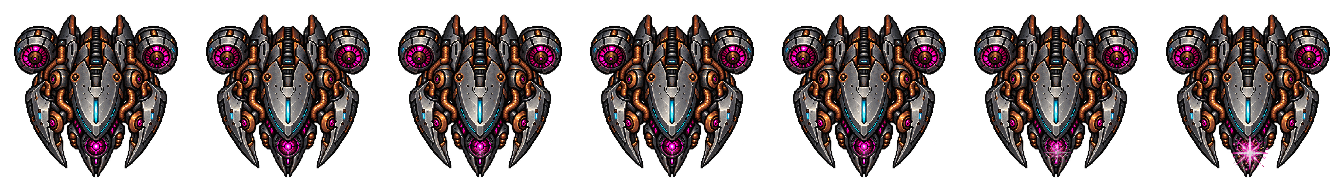
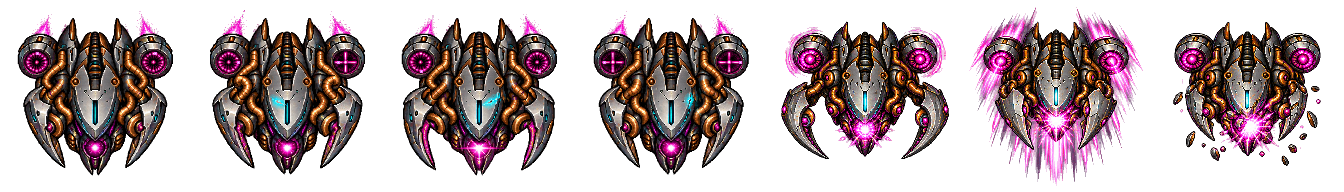
Steel Hound: real 4-frame idle loop (turbines, claws, core, visor), stronger tells and hit

diff --git a/Pause/Assets/Art/Enemies/src~/hound/build_hound.py b/Pause/Assets/Art/Enemies/src~/hound/build_hound.py
@@ -1,0 +1,126 @@
+"""Assemble image-generated Steel Hound key poses at the shipped cell size.
+
+Inputs are the retained painted image-generation candidates. All resampling is
+nearest-neighbour; the original strip is retained separately as original.png.
+"""
+from __future__ import annotations
+
+import colorsys
+from pathlib import Path
+
+import numpy as np
+from PIL import Image, ImageDraw
+
+HERE = Path(__file__).resolve().parent
+LIVE = HERE.parents[2] / "Resources/Enemies/space_chaser.png"
+CELL = 192
+
+
+def remove_player_red(image: Image.Image) -> Image.Image:
+    """Map stray generated crimson to magenta or warm copper, preserving value."""
+    a = np.asarray(image.convert("RGBA"), dtype=np.uint8).copy()
+    rgb = a[:, :, :3].astype(np.float32) / 255
+    mx = rgb.max(2)
+    mn = rgb.min(2)
+    active = (a[:, :, 3] > 0) & (mx > .18) & ((mx - mn) / np.maximum(mx, 1e-6) > .5)
+    ys, xs = np.where(active)
+    for y, x in zip(ys, xs):
+        h, s, v = colorsys.rgb_to_hsv(*rgb[y, x])
+        if h < 18 / 360 or h > 342 / 360:
+            # Red in a neon flare becomes magenta; rusty metal becomes copper.
+            target = 320 / 360 if rgb[y, x, 2] > rgb[y, x, 1] else 25 / 360
+            a[y, x, :3] = np.asarray(colorsys.hsv_to_rgb(target, s, v)) * 255
+    return Image.fromarray(a, "RGBA")
+
+
+def frame(filename: str, index: int, count: int, scale: float, center_y: float) -> Image.Image:
+    source = Image.open(HERE / filename).convert("RGBA")
+    sw, sh = source.size
+    x0 = round(sw * index / count)
+    x1 = round(sw * (index + 1) / count)
+    source = source.crop((x0, 0, x1, sh))
+    # Some generated candidates have barely visible ghost pixels far from the
+    # painted sprite. Drop them, then quantize only alpha for crisp pixel rings.
+    data = np.asarray(source).copy()
+    alpha = data[:, :, 3]
+    alpha[alpha < 32] = 0
+    alpha[(alpha >= 32) & (alpha < 96)] = 64
+    alpha[(alpha >= 96) & (alpha < 160)] = 128
+    alpha[(alpha >= 160) & (alpha < 224)] = 192
+    alpha[alpha >= 224] = 255
+    data[:, :, 3] = alpha
+    source = remove_player_red(Image.fromarray(data, "RGBA"))
+    scaled = source.resize((round(source.width * scale), round(source.height * scale)), Image.Resampling.NEAREST)
+    cell = Image.new("RGBA", (CELL, CELL))
+    cx = source.width / 2
+    x = round(CELL / 2 - cx * scale)
+    y = round(CELL / 2 - center_y * scale)
+    cell.alpha_composite(scaled, (x, y))
+    return cell
+
+
+def main() -> None:
+    frames = [frame("candidate_idle_b.png", i, 4, .33, 350) for i in range(4)]
+    # The generator varied some tiny steel scuffs between drawings. Hold its
+    # painted central armor from the first key, while leaving all animated
+    # pods, pipe runs, claws, and belly cores from their respective key poses.
+    hull_mask = Image.new("L", (CELL, CELL))
+    ImageDraw.Draw(hull_mask).polygon(
+        [(87, 24), (104, 24), (116, 46), (122, 76), (117, 112),
+         (106, 137), (95, 146), (84, 136), (72, 112), (69, 76), (76, 46)],
+        fill=255,
+    )
+    for i in range(1, 4):
+        moving = frames[i].copy()
+        frames[i].paste(frames[0], (0, 0), hull_mask)
+        # Retain the image-generated cyan visor scan on top of the fixed plate.
+        a = np.asarray(moving)
+        scan = ((a[:, :, 2] > 135) & (a[:, :, 1] > 120) &
+                (a[:, :, 2] > a[:, :, 0] * 1.25) & (a[:, :, 3] > 190))
+        scan &= np.asarray(hull_mask) > 0
+        frames[i].paste(moving, (0, 0), Image.fromarray((scan * 255).astype(np.uint8), "L"))
+    # Asymmetric hot vent sectors make the painted radial fans visibly advance
+    # one quarter-turn per idle key; the two counter-rotate like pursuit jets.
+    phases = [(0, -9), (9, 0), (0, 9), (-9, 0)]
+    for i, f in enumerate(frames):
+        draw = ImageDraw.Draw(f)
+        for cx, direction in ((37, 1), (155, -1)):
+            dx, dy = phases[(i * direction) % 4]
+            x, y = cx + dx, 62 + dy
+            draw.rectangle((x - 1, y - 1, x + 1, y + 1), fill="#f57af9")
+            draw.point((x, y), fill="#fff0ff")
+    frames += [frame("candidate_tell_a.png", i, 3, .26, 362) for i in range(3)]
+    sheet = Image.new("RGBA", (CELL * 7, CELL))
+    for i, f in enumerate(frames):
+        sheet.alpha_composite(f, (CELL * i, 0))
+    sheet.save(LIVE)
+
+    bg = Image.new("RGB", (CELL * 7 * 2, CELL * 2 * 2 + 52), "#0b0b1a")
+    draw = ImageDraw.Draw(bg)
+    labels = ["idle 0", "idle 1", "idle 2", "idle 3", "tell A", "tell B", "hit"]
+    for i, f in enumerate(frames):
+        tile = Image.new("RGBA", (CELL, CELL), "#0b0b1a")
+        tile.alpha_composite(f)
+        bg.paste(tile.convert("RGB").resize((CELL * 2, CELL * 2), Image.Resampling.NEAREST), (i * CELL * 2, 24))
+        draw.text((i * CELL * 2 + 8, 5), labels[i], fill="#d6e7ef")
+    for i in range(3):
+        a = np.asarray(frames[i].convert("RGBA"), dtype=np.int16)
+        b = np.asarray(frames[i + 1].convert("RGBA"), dtype=np.int16)
+        magnitude = np.max(np.abs(a - b), axis=2).astype(np.uint8)
+        diff = np.zeros((CELL, CELL, 3), dtype=np.uint8)
+        diff[:, :, 0] = magnitude
+        diff[:, :, 2] = np.minimum(magnitude.astype(np.uint16) * 2, 255).astype(np.uint8)
+        diff[:, :, 1] = np.minimum(magnitude.astype(np.uint16) // 3, 255).astype(np.uint8)
+        d = Image.fromarray(diff, "RGB").resize((CELL * 2, CELL * 2), Image.Resampling.NEAREST)
+        bg.paste(d, (i * CELL * 2, CELL * 2 + 52))
+        draw.text((i * CELL * 2 + 8, CELL * 2 + 31), f"difference {i} → {i+1}", fill="#d6e7ef")
+    bg.save(HERE / "preview.png")
+
+    gif = [f.copy() for f in frames]
+    # GIF stores time in 10 ms units, so 80/90 ms holds average about 12 fps.
+    gif[0].save(HERE / "preview.gif", save_all=True, append_images=gif[1:] + gif[3:0:-1],
+                duration=[80, 80, 90, 80, 120, 90, 120, 80, 90, 80], loop=0, disposal=2)
+
+
+if __name__ == "__main__":
+    main()

diff --git a/Pause/Assets/Art/Enemies/src~/hound/audit.py b/Pause/Assets/Art/Enemies/src~/hound/audit.py
@@ -1,0 +1,60 @@
+"""Validate the shipped seven-cell Steel Hound strip and print a compact report."""
+from __future__ import annotations
+
+from pathlib import Path
+
+import numpy as np
+from PIL import Image
+
+HERE = Path(__file__).resolve().parent
+STRIP = HERE.parents[2] / "Resources/Enemies/space_chaser.png"
+CELL = 192
+
+
+def main() -> None:
+    image = Image.open(STRIP)
+    assert image.size == (1344, 192), f"unexpected sheet dimensions {image.size}"
+    assert image.mode == "RGBA", f"expected RGBA, found {image.mode}"
+    cells = [np.asarray(image.crop((i * CELL, 0, (i + 1) * CELL, CELL))).copy()
+             for i in range(7)]
+    centers = []
+    for i, a in enumerate(cells):
+        alpha = a[:, :, 3]
+        yy, xx = np.where(alpha > 0)
+        assert len(xx) > 0, f"cell {i} empty"
+        margins = (int(xx.min()), int(yy.min()), int(CELL - 1 - xx.max()),
+                   int(CELL - 1 - yy.max()))
+        assert min(margins) >= 6, f"cell {i} margin violation: {margins}"
+        solid_y, solid_x = np.where(alpha >= 224)
+        center = (float(solid_x.mean()), float(solid_y.mean()))
+        centers.append(center)
+        colors = len(np.unique(a[alpha > 0], axis=0))
+        assert colors >= 300, f"cell {i} has only {colors} colors"
+        hsv = np.asarray(Image.fromarray(a, "RGBA").convert("RGB").convert("HSV"))
+        hue, sat, val = hsv[:, :, 0], hsv[:, :, 1], hsv[:, :, 2]
+        red = (alpha > 0) & (sat > 128) & (val > 55) & ((hue < 11) | (hue > 244))
+        assert not red.any(), f"cell {i} has {int(red.sum())} saturated red pixels"
+        print(f"cell {i}: margins={margins}, solid centroid=({center[0]:.2f}, {center[1]:.2f}), "
+              f"colors={colors:,}, solid pixels={len(solid_x):,}")
+    reference = np.asarray(centers[:4])
+    drift = np.max(np.abs(reference - reference[0]), axis=0)
+    assert np.max(drift) <= 3, f"idle centroid drift {drift}"
+    print(f"idle centroid max drift: dx={drift[0]:.2f}, dy={drift[1]:.2f}")
+    for i in range(3):
+        a, b = cells[i], cells[i + 1]
+        body = (a[:, :, 3] >= 224) | (b[:, :, 3] >= 224)
+        different = np.any(a != b, axis=2)
+        changed = int(np.count_nonzero(different & body))
+        ratio = changed / np.count_nonzero(body)
+        assert ratio >= .03, f"idle {i}->{i+1} only {ratio:.1%} changed"
+        sil_a = a[:, :, 3] >= 224
+        sil_b = b[:, :, 3] >= 224
+        intersection = np.count_nonzero(sil_a & sil_b)
+        union = np.count_nonzero(sil_a | sil_b)
+        print(f"idle {i}->{i+1}: changed body pixels={changed:,} ({ratio:.1%}), "
+              f"solid silhouette IoU={intersection / union:.3f}")
+    print("PASS: size, RGBA, margins, anchors, color detail, no player red, idle motion")
+
+
+if __name__ == "__main__":
+    main()

diff --git a/Pause/Assets/Art/Enemies/src~/hound/prompts.md b/Pause/Assets/Art/Enemies/src~/hound/prompts.md
@@ -1,0 +1,13 @@
+# Steel Hound image generation
+
+Built-in image generation edited `original.png` on a transparent background.
+All four candidates are retained here. The original was saved before editing.
+
+- `candidate_idle_a.png`: four fixed-scale idle poses; rotating turbines, flexing claws, copper ripple, visor scan, belly pulse.
+- `candidate_idle_b.png`: alternate four-frame strip emphasizing turbine quarter-turns, 8 px-equivalent claw-tip movement, visor sweep, and stronger core pulse. Selected for idle 0–3.
+- `candidate_tell_a.png`: rear with open claws, forward lunge with afterimages, localized hit flash and chips. Selected for tells and hit.
+- `candidate_tell_b.png`: alternate restrained charge poses. Retained for comparison.
+
+All prompts specified the original hound as the identity reference: steel and copper hull, twin magenta turbine pods, curved steel claws, cyan visor, magenta belly core, rich painterly pixel detail, crisp dark outlines, transparent background, no red, and one centered body per frame. Tell prompts required the same-scale hull, distinct rear/lunge/hit silhouettes, local white-magenta flash, and visible hull material.
+
+`build_hound.py` crops the painted poses at fixed cell divisions, applies nearest-neighbour scaling and discrete alpha steps, remaps any stray saturated red to magenta or copper, and writes the live strip and previews. It does not synthesize the poses.
